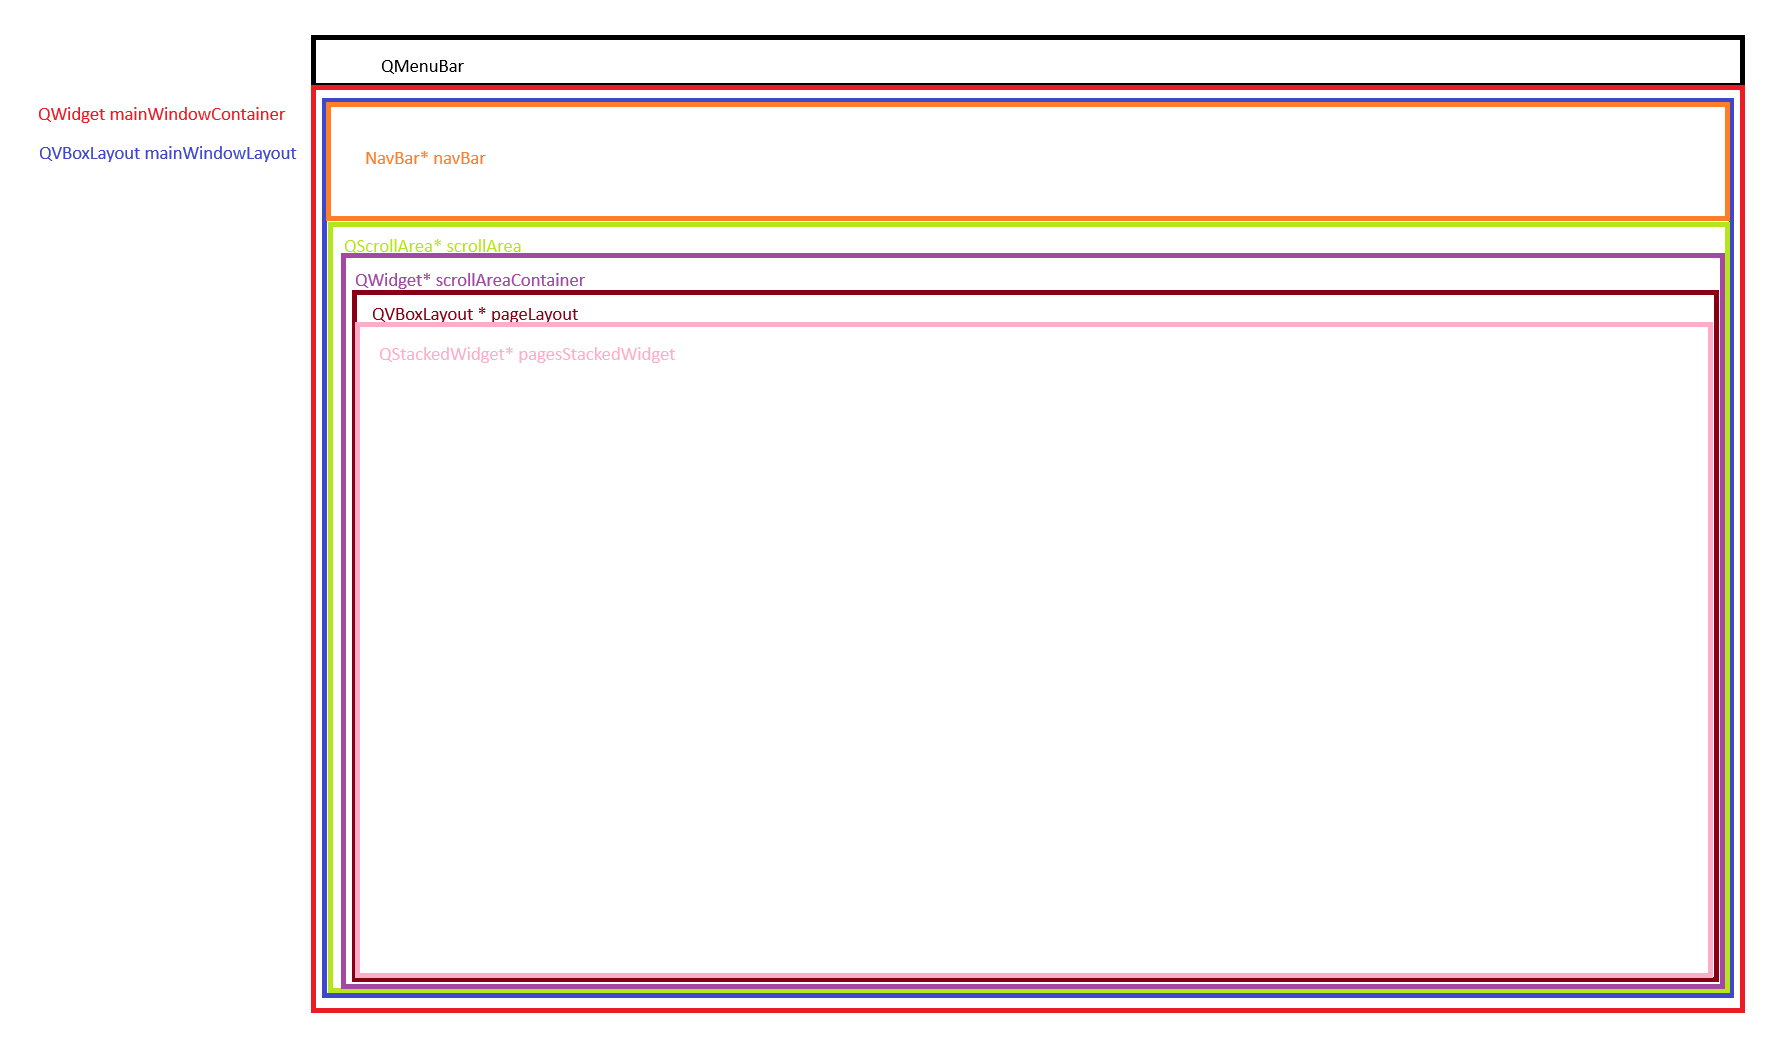
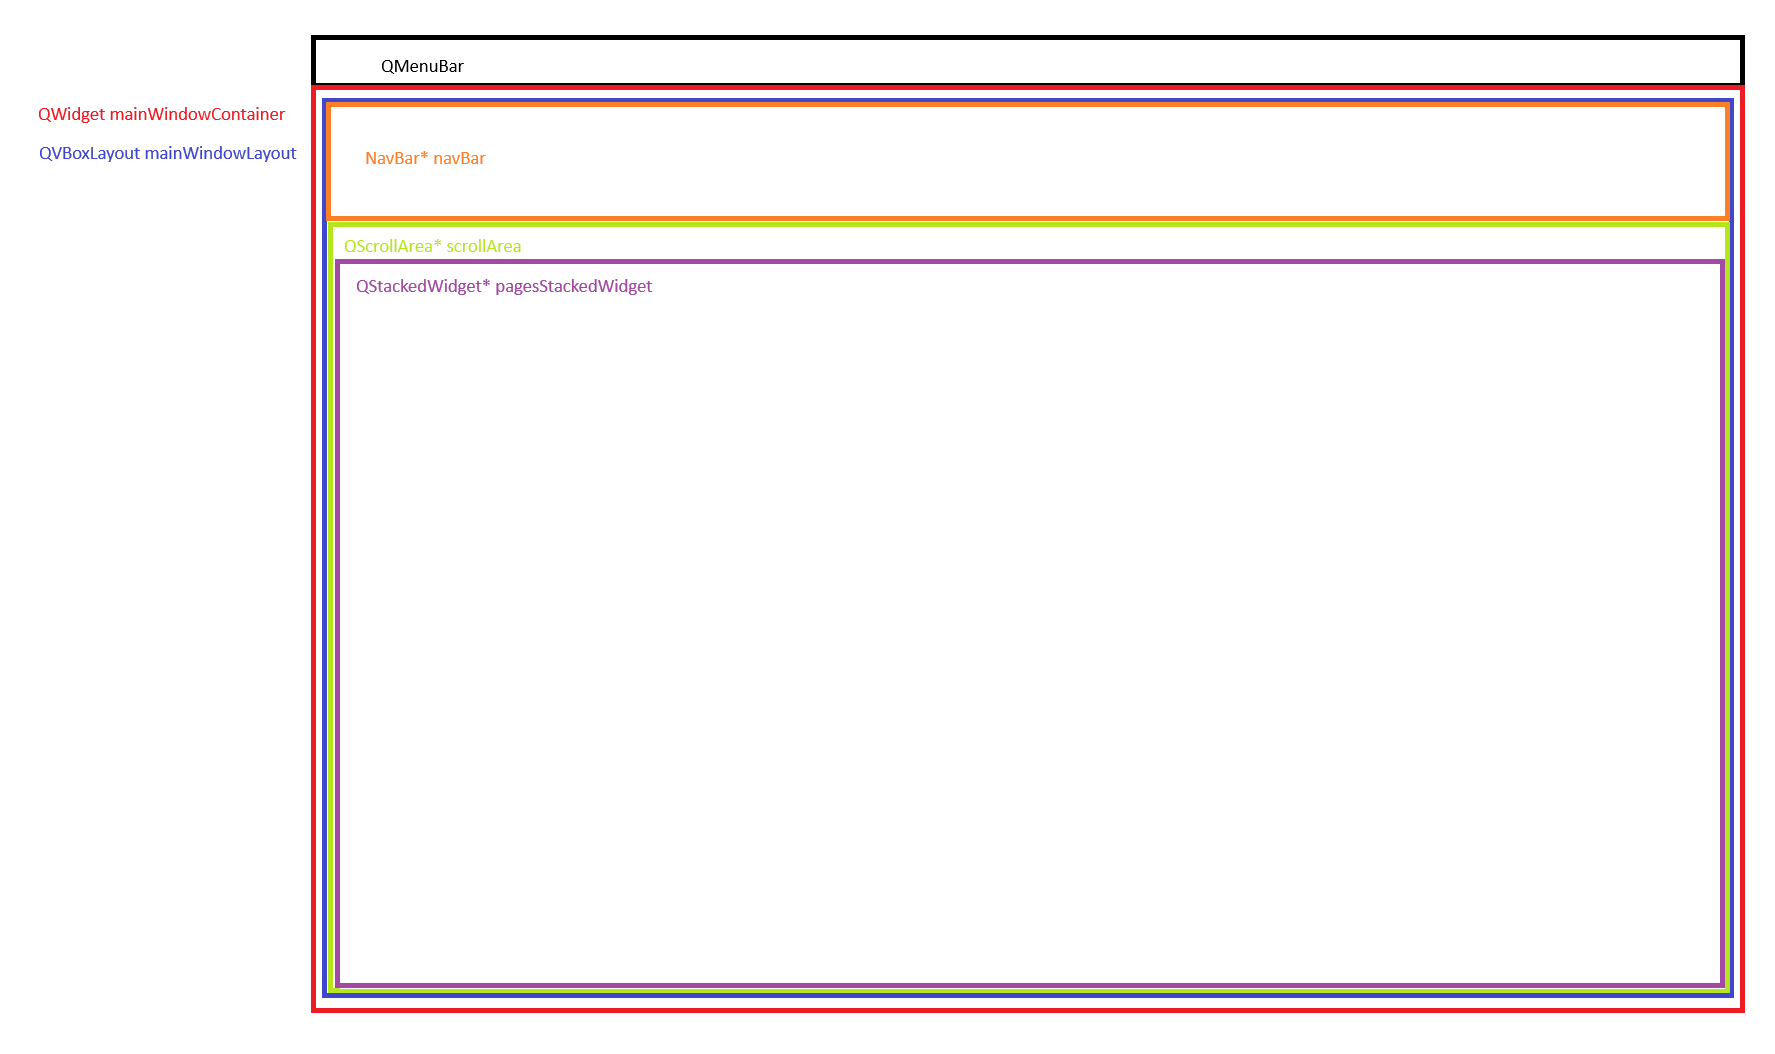
remove redundant container/layout

Changed region(s): [[0.1859, 0.2429, 0.9915, 0.9412]]

diff --git a/solution/window.cpp b/solution/window.cpp
@@ -14,8 +14,7 @@ WaterSampleWindow::WaterSampleWindow(): QMainWindow()
   createMenuBar();
   createMainLayout();
   createNavBar();
-  createScrollArea();
-  createPageLayout();
+  createPageArea();
   createHomePage();
   createSecondTestPage();
 
@@ -53,26 +52,14 @@ void WaterSampleWindow::createNavBar()
 }
 
 // Create a scroll area for the main page content, and a container widget
-void WaterSampleWindow::createScrollArea()
+void WaterSampleWindow::createPageArea()
 {
   scrollArea = new QScrollArea();
   scrollArea->setWidgetResizable(true);
   mainWindowLayout->addWidget(scrollArea);
 
-  scrollAreaContainer = new QWidget(scrollArea);
-  scrollAreaContainer->setSizePolicy(QSizePolicy::Ignored, QSizePolicy::Ignored);
-  scrollArea->setWidget(scrollAreaContainer);
-}
-
-// Create a layout for inside the scroll area container,
-// and a stacked widget to hold the pages
-void WaterSampleWindow::createPageLayout()
-{
-  pageLayout = new QVBoxLayout(scrollAreaContainer);
-  scrollAreaContainer->setLayout(pageLayout);
-  
   pagesStackedWidget = new QStackedWidget();
-  pageLayout->addWidget(pagesStackedWidget);
+  scrollArea->setWidget(pagesStackedWidget);
 }
 
 void WaterSampleWindow::addPage(QWidget* page, const QString& label)

diff --git a/solution/window.hpp b/solution/window.hpp
@@ -32,8 +32,6 @@ class WaterSampleWindow: public QMainWindow
     NavBar* navBar;
     QTabWidget* tabSwitcher;
     QScrollArea* scrollArea;
-    QWidget* scrollAreaContainer;
-    QVBoxLayout* pageLayout;
     QStackedWidget* pagesStackedWidget;
 
     WaterSampleTableModel model;
@@ -44,8 +42,7 @@ class WaterSampleWindow: public QMainWindow
     void createMenuBar();
     void createMainLayout();
     void createNavBar();
-    void createScrollArea();
-    void createPageLayout();
+    void createPageArea();
     void addPage(QWidget* page, const QString& label);
     void createHomePage();
     void createSecondTestPage();
